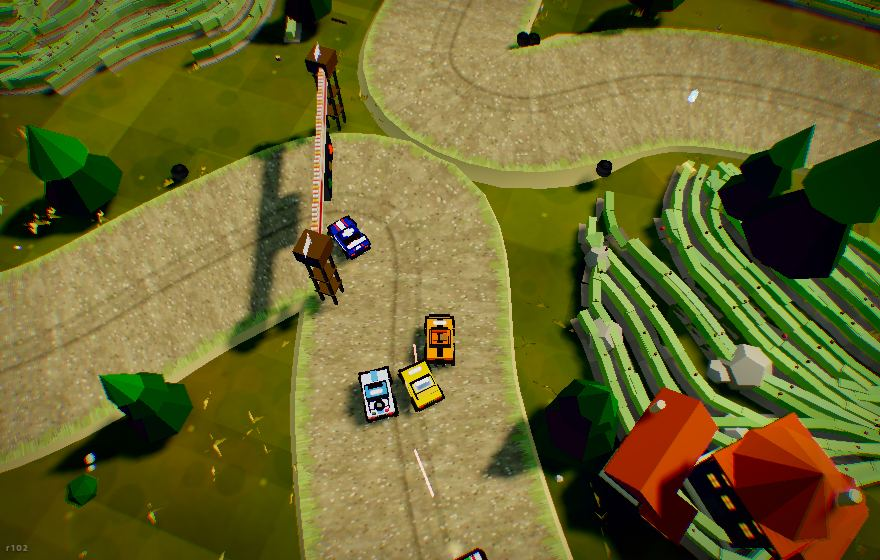
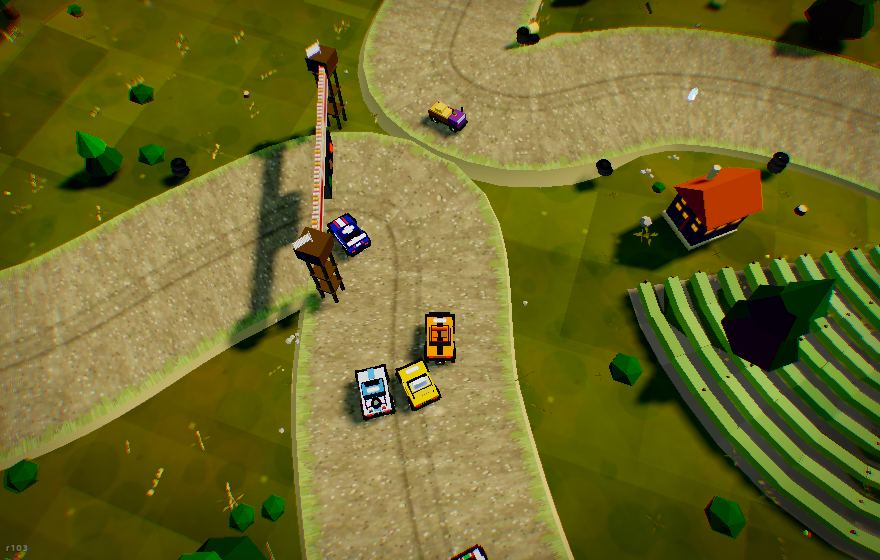
Vineyards: one contour, many parallel rows
Reported from the phone: the rows looked like giant green berms with black
trenches between them. Two faults, both invisible from the distant camera
angles the last round was checked at.

ROLL. The contour rewrite moved a row's length onto the box's Z axis but
left the grade rotation on Z - and a rotation about Z leaves Z alone. Rows
were never pitched along their length; each panel was ROLLED about it,
which stood the 2.35 u tilled strip up on its edge as a wall and splayed
the canopy sideways. The grade belongs about local X. Measured after:
worst roll 0.0 degrees across 7770 panels, mean 0.0.

INDEPENDENT WALKS. Every row walked its own contour, and contour lines
converge on ridges and saddles, so rows fanned apart and braided - hoses
dropped on grass, not planting. A parcel now walks ONE master contour and
every row is that path offset along its normals: parallel by construction,
cannot converge, cannot cross, and the block bends as one. Segments that
fold through the inside of a tight bend are dropped.

Also: per-panel skips (shared occupancy grid, land breaks) were punching
holes through the middle of good rows, and a vineyard with gaps in its
rows reads as damaged - parcels are now kept apart at parcel scale and a
land break ENDS a row. That rejection had to move into the position
generator, because _scatter counts a placer that bails as a parcel spent,
which had quietly thinned the wine country by two thirds.
[…]

diff --git a/src/track.js b/src/track.js
@@ -7906,33 +7906,35 @@ export class Track {
     }
   }
 
-  /** VINEYARD PARCELS: rows that WALK the contour.
+  /** VINEYARD PARCELS: one contour, many parallel rows.
    *
-   *  The first cut stretched ONE rigid box per row and seated it at the ground
-   *  height of its centre, so on any slope both ends hung in the air - green
-   *  beams floating over the hill, and a row long enough to reach onto the
-   *  carriageway. The second drew short straight rows aligned to the fall line
-   *  at the parcel's centre, which drapes correctly but reads as rectangular
-   *  patches: the reference is a hillside combed by long sweeping arcs.
+   *  Three earlier cuts, three lessons. A single rigid box per row floated
+   *  its ends over any slope. Short straight panels drape correctly but read
+   *  as rectangular patches, where the reference is a hillside combed by long
+   *  curves. Letting every row walk its OWN contour gave curves, but rows walk
+   *  independently: on real ground they fan apart, converge and braid, which
+   *  looks like hoses dropped on the grass, not planting.
    *
-   *  So a row is now WALKED. From its seed it steps 2.6 u at a time along the
-   *  local contour - perpendicular to the fall line, re-read at every step and
-   *  kept continuous by refusing any turn that reverses the previous heading -
-   *  and the next row seeds one spacing DOWN the fall line from the last. The
-   *  arcs come out of the terrain itself, so rows stay parallel, wrap the hill
-   *  together, and no two parcels comb against each other. On ground too flat
-   *  to have a fall line the walk holds its heading, which is what keeps a
-   *  valley floor from turning into scribble.
+   *  So a parcel now walks ONE master contour - stepping SEG at a time along
+   *  the local fall line's perpendicular, re-read each step, never doubling
+   *  back - and every row is that master path OFFSET sideways along its
+   *  normals. Parallel BY CONSTRUCTION: rows cannot converge, cannot cross,
+   *  and the whole block bends together the way a planted hillside does. The
+   *  one thing an offset curve can do is fold through the inside of a tight
+   *  bend, and a folded segment is simply dropped.
    *
-   *  Dressing sells the crop: tilled soil under every row, trellis posts proud
-   *  of the canopy, per-panel height jitter for a ragged top line, hue drift
-   *  down the rows. Three draw calls for the whole wine country. */
+   *  Panels are short, sample their own ground, and pitch to the local grade
+   *  about their WIDTH axis - a rotation about the length axis instead would
+   *  roll the row onto its side, which stood the tilled strip up as a wall.
+   *  Dressing: tilled soil under each row, trellis posts proud of the canopy,
+   *  per-panel height jitter for a ragged top line, hue drift. Three draw
+   *  calls for the whole wine country. */
   _buildVineRows() {
     const V = this.T.vineRows;
     const blocks = V.count ?? 20;
-    const ROWS_MAX = 13, STEPS_MAX = 26, SEG = 2.6, SPACING = 3.3;
+    const ROWS_MAX = 16, STEPS_MAX = 15, SEG = 2.7, SPACING = 2.9;
     const CLEAR = ROAD_HALF + 5.5;                 // no vine reaches the verge
-    const CAP = blocks * ROWS_MAX * STEPS_MAX;
+    const CAP = blocks * ROWS_MAX * (STEPS_MAX * 2 + 1);
     const unit = new THREE.BoxGeometry(1, 1, 1);
     unit.translate(0, 0.5, 0);
     const vines = new THREE.InstancedMesh(unit,
@@ -7943,89 +7945,122 @@ export class Track {
     postGeo.translate(0, 0.5, 0);
     const posts = new THREE.InstancedMesh(postGeo,
       new THREE.MeshStandardMaterial({ color: 0x7a5836, roughness: 1 }),
-      blocks * ROWS_MAX * 14);
+      Math.ceil(CAP / 3) + blocks);
     const m4 = new THREE.Matrix4(), q = new THREE.Quaternion();
-    const eul = new THREE.Euler(0, 0, 0, 'YZX');
+    const eul = new THREE.Euler(0, 0, 0, 'YXZ');
     const up = new THREE.Vector3(0, 1, 0);
     const pos = new THREE.Vector3(), scl = new THREE.Vector3(), col = new THREE.Color();
     let vk = 0, sk = 0, pk = 0;
+    // Parcels are kept apart at PARCEL scale. Testing every panel against a
+    // shared grid punched holes through the middle of otherwise good rows,
+    // and a vineyard with gaps in its rows reads as damaged, not as planted.
+    const planted = [];
 
     // downhill unit vector at (x,z), or null where the land is effectively flat
     const fall = (x, z) => {
       const gx = this.terrainHeight(x + 7, z) - this.terrainHeight(x - 7, z);
       const gz = this.terrainHeight(x, z + 7) - this.terrainHeight(x, z - 7);
       const m = Math.hypot(gx, gz);
-      return m < 0.5 ? null : { x: gx / m, z: gz / m, m };
+      return m < 0.5 ? null : { x: gx / m, z: gz / m };
     };
 
-    this._scatter(blocks, () => this._trackSidePos(21, 95), (p) => {
+    // NB the rejection lives in the position generator, not in the placer:
+    // _scatter counts a placer that bails as a parcel spent, so rejecting
+    // overlaps there quietly thinned the wine country by two thirds.
+    const seedPos = () => {
+      const q = this._trackSidePos(26, 95);
+      if (!q) return null;
+      for (const c of planted) {
+        if (Math.hypot(c[0] - q.x, c[1] - q.z) < 52) return null;
+      }
+      return q;
+    };
+    this._scatter(blocks, seedPos, (p) => {
       const h0 = this.terrainHeight(p.x, p.z);
       for (const [ox, oz] of [[11, 0], [-11, 0], [0, 11], [0, -11]]) {
         if (Math.abs(this.terrainHeight(p.x + ox, p.z + oz) - h0) > 3.4) return;
       }
-      const hue = 0.245 + Math.random() * 0.045;                   // parcel varietal
-      const rows = 7 + (Math.random() * (ROWS_MAX - 6) | 0);
-      const steps = 14 + (Math.random() * (STEPS_MAX - 13) | 0);
+      const rows = 9 + (Math.random() * (ROWS_MAX - 8) | 0);
+      const steps = 7 + (Math.random() * (STEPS_MAX - 8) | 0);
+      const halfW = ((rows - 1) / 2) * SPACING;      // how far the block reaches out
       // flat ground has no contour to follow: hold one estate heading instead
       const seedFall = fall(p.x, p.z);
       const est = Math.sin(Math.floor(p.x / 140) * 12.9898 + Math.floor(p.z / 140) * 78.233) * 43758.5453;
       const flatYaw = (est - Math.floor(est)) * Math.PI;
-      let sx = p.x, sz = p.z;
-      let seedDir = seedFall || { x: Math.cos(flatYaw), z: Math.sin(flatYaw) };
+      const sd = seedFall || { x: Math.cos(flatYaw), z: Math.sin(flatYaw) };
+
+      // ---- the master contour, walked out of the seed in both directions
+      const walk = (way) => {
+        const acc = [];
+        let cx = p.x, cz = p.z;
+        let dirx = -sd.z * way, dirz = sd.x * way;
+        for (let s = 0; s < steps; s++) {
+          const f = fall(cx, cz);
+          if (f) {
+            let nx = -f.z, nz = f.x;
+            if (nx * dirx + nz * dirz < 0) { nx = -nx; nz = -nz; }
+            dirx += (nx - dirx) * 0.5;                  // ease the turn
+            dirz += (nz - dirz) * 0.5;
+            const m = Math.hypot(dirx, dirz) || 1;
+            dirx /= m; dirz /= m;
+          }
+          cx += dirx * SEG; cz += dirz * SEG;
+          // the whole BLOCK has to clear the road, not just its middle
+          if (this._distToTrack(cx, cz) < CLEAR + halfW) break;
+          acc.push([cx, cz]);
+        }
+        return acc;
+      };
+      const back = walk(-1).reverse();
+      const path = back.concat([[p.x, p.z]], walk(1));
+      if (path.length < 4) return;
+
+      // per-point normals, from the local tangent
+      const nx = [], nz = [];
+      for (let i = 0; i < path.length; i++) {
+        const a = path[Math.max(0, i - 1)], b = path[Math.min(path.length - 1, i + 1)];
+        const tx = b[0] - a[0], tz = b[1] - a[1];
+        const m = Math.hypot(tx, tz) || 1;
+        nx.push(-tz / m); nz.push(tx / m);
+      }
+
+      const hue = 0.245 + Math.random() * 0.045;                   // parcel varietal
       let any = 0;
       for (let r = 0; r < rows; r++) {
-        const sat = 0.46 + Math.random() * 0.16, lum = 0.2 + Math.random() * 0.07;
-        // walk out from the seed in both directions along the contour
-        for (const way of [1, -1]) {
-          let cx = sx, cz = sz;
-          let dirx = -seedDir.z * way, dirz = seedDir.x * way;     // contour heading
-          const run = way > 0 ? Math.ceil(steps / 2) : (steps >> 1);
-          for (let s = 0; s < run && vk < CAP; s++) {
-            const f = fall(cx, cz);
-            if (f) {
-              // turn onto the local contour, but never double back on ourselves
-              let nx = -f.z, nz = f.x;
-              if (nx * dirx + nz * dirz < 0) { nx = -nx; nz = -nz; }
-              dirx += (nx - dirx) * 0.6;                            // ease the turn
-              dirz += (nz - dirz) * 0.6;
-              const m = Math.hypot(dirx, dirz) || 1;
-              dirx /= m; dirz /= m;
-            }
-            const ax = cx, az = cz;
-            const ex = cx + dirx * SEG, ez = cz + dirz * SEG;
-            const mx = (ax + ex) / 2, mz = (az + ez) / 2;
-            cx = ex; cz = ez;
-            if (this._distToTrack(mx, mz) < CLEAR) break;           // stop at the verge
-            const ya = this.terrainHeight(ax, az), yb = this.terrainHeight(ex, ez);
-            if (Math.abs(yb - ya) > 1.8) break;                     // a break in the land
-            const gy = Math.min((ya + yb) / 2, this.terrainHeight(mx, mz) + 0.3);
-            eul.set(0, Math.atan2(dirx, dirz), Math.atan2(yb - ya, SEG));
-            q.setFromEuler(eul);
-            // rows run along the box's Z after this yaw, so length goes in Z
-            m4.compose(pos.set(mx, gy - 0.02, mz), q, scl.set(2.35, 0.07, SEG * 1.06));
-            soil.setMatrixAt(sk, m4);
-            col.setHSL(0.072, 0.36, 0.19 + Math.random() * 0.05);
-            soil.setColorAt(sk++, col);
-            const ch = 1.02 + Math.random() * 0.34;
-            m4.compose(pos.set(mx, gy + 0.46, mz), q, scl.set(0.86, ch, SEG * 1.04));
-            vines.setMatrixAt(vk, m4);
-            col.setHSL(hue + (Math.random() - 0.5) * 0.02, sat, lum + (Math.random() - 0.5) * 0.05);
-            vines.setColorAt(vk++, col);
-            if (s % 3 === 0 && pk < posts.count) {
-              m4.compose(pos.set(ax, ya, az), q.setFromAxisAngle(up, 0),
-                scl.set(1, 1.86 + Math.random() * 0.24, 1));
-              posts.setMatrixAt(pk++, m4);
-            }
-            any++;
+        const off = (r - (rows - 1) / 2) * SPACING;
+        const sat = 0.5 + Math.random() * 0.14, lum = 0.17 + Math.random() * 0.06;
+        for (let i = 0; i + 1 < path.length && vk < CAP; i++) {
+          const ax = path[i][0] + nx[i] * off, az = path[i][1] + nz[i] * off;
+          const ex = path[i + 1][0] + nx[i + 1] * off, ez = path[i + 1][1] + nz[i + 1] * off;
+          const len = Math.hypot(ex - ax, ez - az);
+          if (len < SEG * 0.4) continue;              // folded through a tight bend
+          const mx = (ax + ex) / 2, mz = (az + ez) / 2;
+          if (this._distToTrack(mx, mz) < CLEAR) continue;
+          const ya = this.terrainHeight(ax, az), yb = this.terrainHeight(ex, ez);
+          if (Math.abs(yb - ya) > 1.8) break;         // the land breaks: END the row
+          const gy = Math.min((ya + yb) / 2, this.terrainHeight(mx, mz) + 0.3);
+          // rows run along local Z, so the grade turns about local X. About Z
+          // it would ROLL the row onto its side.
+          eul.set(-Math.atan2(yb - ya, len), Math.atan2(ex - ax, ez - az), 0);
+          q.setFromEuler(eul);
+          m4.compose(pos.set(mx, gy - 0.02, mz), q, scl.set(SPACING * 0.99, 0.07, len * 1.06));
+          soil.setMatrixAt(sk, m4);
+          col.setHSL(0.072, 0.36, 0.19 + Math.random() * 0.05);
+          soil.setColorAt(sk++, col);
+          const ch = 1.0 + Math.random() * 0.3;
+          m4.compose(pos.set(mx, gy + 0.44, mz), q, scl.set(1.15, ch, len * 1.04));
+          vines.setMatrixAt(vk, m4);
+          col.setHSL(hue + (Math.random() - 0.5) * 0.02, sat, lum + (Math.random() - 0.5) * 0.05);
+          vines.setColorAt(vk++, col);
+          if (i % 3 === 0 && pk < posts.count) {
+            m4.compose(pos.set(ax, ya, az), q.setFromAxisAngle(up, 0),
+              scl.set(1, 1.8 + Math.random() * 0.22, 1));
+            posts.setMatrixAt(pk++, m4);
           }
+          any++;
         }
-        // next row: one spacing DOWN the fall line, so rows stay concentric
-        const sf = fall(sx, sz) || seedDir;
-        seedDir = sf;
-        sx += sf.x * SPACING;
-        sz += sf.z * SPACING;
       }
-      if (any) this._addShadow(p.x, p.z, 9);
+      if (any) { planted.push([p.x, p.z]); this._addShadow(p.x, p.z, 9); }
     });
     vines.count = vk;
     soil.count = sk;

diff --git a/index.html b/index.html
@@ -835,7 +835,7 @@
 </div>
 <div id="damage-vignette"></div>
 <div id="polish-vignette"></div>
-<div id="build-tag">r102</div>
+<div id="build-tag">r103</div>
 <div id="fade"></div>
 
 <div id="touch-ui">
@@ -1048,10 +1048,10 @@
   // its URL + anon key here. Leave empty to keep sync codes only.
   window.IGNITE_SYNC = { url: '', key: '' };
 </script>
-<script type="module" src="./src/main.js?v=r102"></script>
+<script type="module" src="./src/main.js?v=r103"></script>
 <!-- offline arming: registers sw.js and drives the flight badge -->
-<script src="./src/offline.js?v=r102"></script>
+<script src="./src/offline.js?v=r103"></script>
 <!-- rural traffic: self-attaching, polls window.__game (no engine hooks) -->
-<script type="module" src="./src/traffic.js?v=r102"></script>
+<script type="module" src="./src/traffic.js?v=r103"></script>
 </body>
 </html>

diff --git a/sw.js b/sw.js
@@ -16,7 +16,7 @@
  * CACHE is bumped by the release version. Bump it whenever ?v= in index.html
  * is bumped, or phones will keep serving the previous build forever.
  */
-const CACHE = 'ignite-rally-r102';
+const CACHE = 'ignite-rally-r103';
 
 // ---- CORE vs EXTRA ---------------------------------------------------------
 // CORE is everything the game needs to RUN with the radio off: the shell, the
